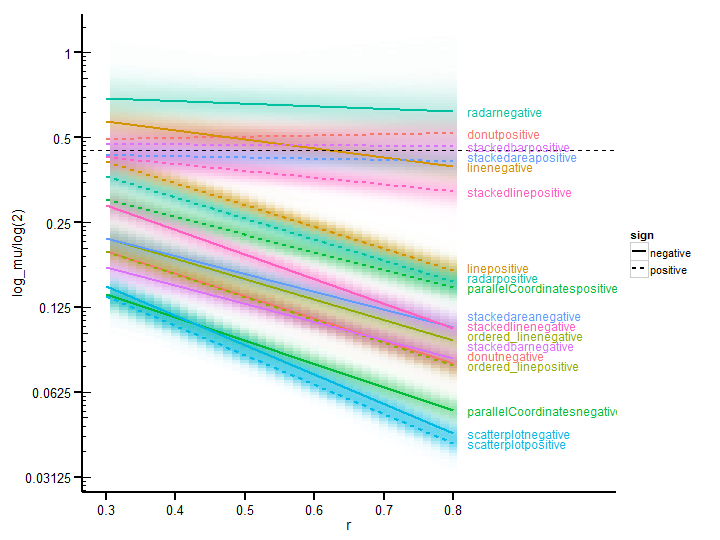
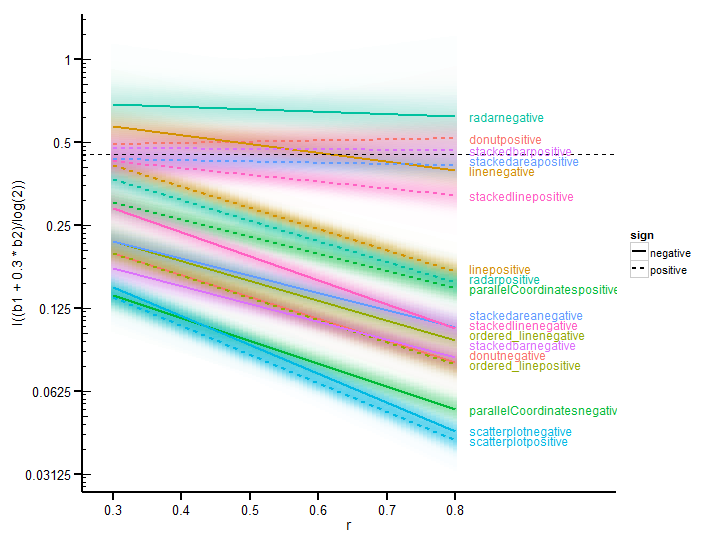
Nicer final model densities using predict_curve_density plus fixes for new gamlss.
predict_curve_density() from newest tidybayes makes the gradients on the
final model plot much faster and less memory-intensive to produce (plus
nicer looking).

Updated gamlss seems to require passing the original data frame into the
model virtually always when making predictions (WHY?!), hence some minor fixes
there.

diff --git a/README.html b/README.html
@@ -299,9 +299,9 @@ weber_df =<span class="st"> </span>weber_data_df %&gt;%
 <pre class="sourceCode r"><code class="sourceCode r">models =<span class="st"> </span><span class="kw">list</span>(<span class="dt">uncensored=</span>m.loglinear.all, <span class="dt">censored=</span>m.censored)
 model_fits =<span class="st"> </span><span class="kw">ldply</span>(<span class="kw">c</span>(<span class="st">&quot;uncensored&quot;</span>, <span class="st">&quot;censored&quot;</span>), function(m) {
     <span class="kw">expand.grid</span>(<span class="dt">r=</span><span class="kw">c</span>(.<span class="dv">2</span>, .<span class="dv">9</span>), <span class="dt">visandsign=</span><span class="kw">levels</span>(df$visandsign)) %&gt;%
-<span class="st">    </span><span class="kw">mutate</span>(<span class="dt">approach_value =</span> <span class="dv">0</span>) %&gt;%
-<span class="st">    </span><span class="kw">cbind</span>(<span class="dt">prediction =</span> <span class="kw">predict</span>(models[[m]], <span class="dt">newdata=</span>.)) %&gt;%
-<span class="st">    </span><span class="kw">mutate</span>(<span class="dt">model =</span> m)
+<span class="st">        </span><span class="kw">mutate</span>(<span class="dt">approach_value =</span> <span class="dv">0</span>) %&gt;%
+<span class="st">        </span><span class="kw">cbind</span>(<span class="dt">prediction =</span> <span class="kw">predict</span>(models[[m]], <span class="dt">newdata=</span>., <span class="dt">data=</span>df)) %&gt;%
+<span class="st">        </span><span class="kw">mutate</span>(<span class="dt">model =</span> m)
 })</code></pre>
 <p>Finally, we'll plot the fit for each condition, with and without censoring (compare to Fig 7 in paper):</p>
 <pre class="sourceCode r"><code class="sourceCode r"><span class="kw">ggplot</span>(
@@ -336,25 +336,24 @@ b_medians =<span class="st"> </span>b_samples %&gt;%
 <span class="st">    </span><span class="kw">group_by</span>(visandsign, vis, sign) %&gt;%<span class="st"> </span><span class="co">#vis, sign are redundant here but we want to keep them around</span>
 <span class="st">    </span><span class="kw">summarise</span>(<span class="dt">b1 =</span> <span class="kw">median</span>(b1), <span class="dt">b2 =</span> <span class="kw">median</span>(b2), <span class="dt">b3 =</span> <span class="kw">median</span>(b3), <span class="dt">b4 =</span> <span class="kw">median</span>(b4))</code></pre>
 <p>Then we generate a curve and gradient for log(mu) by r:</p>
-<pre class="sourceCode r"><code class="sourceCode r"><span class="kw">memory.limit</span>(<span class="dv">8000</span>)  <span class="co">#we need a decent amount of RAM to do this</span>
-pred_r_min =<span class="st"> </span>.<span class="dv">3</span>
+<pre class="sourceCode r"><code class="sourceCode r">pred_r_min =<span class="st"> </span>.<span class="dv">3</span>
 pred_r_max =<span class="st"> </span>.<span class="dv">8</span>
-pred_r_step =<span class="st"> </span>.<span class="dv">1</span>/<span class="dv">8</span>
-mu_by_r =<span class="st"> </span><span class="kw">ldply</span>(<span class="kw">seq</span>(pred_r_min, pred_r_max, <span class="dt">by =</span> pred_r_step), 
-    function(r) <span class="kw">within</span>(b_samples, {
-        r &lt;-<span class="st"> </span>r
-        log_mu &lt;-<span class="st"> </span>b1 +<span class="st"> </span>b2*r
-    }))</code></pre>
+pred_r_step =<span class="st"> </span>.<span class="dv">1</span>/<span class="dv">16</span>
+mu_by_r =<span class="st"> </span>b_samples %&gt;%
+<span class="st">    </span><span class="kw">group_by</span>(visandsign, vis, sign) %&gt;%
+<span class="st">    </span><span class="kw">predict_curve_density</span>(
+        log_mu ~<span class="st"> </span>b1 +<span class="st"> </span>b2 *<span class="st"> </span>r,
+        <span class="dt">r =</span> <span class="kw">seq</span>(pred_r_min, pred_r_max, <span class="dt">by =</span> pred_r_step),
+    )</code></pre>
 <p>And we plot it, in log space (Fig 8.1):</p>
 <pre class="sourceCode r"><code class="sourceCode r">mu_by_r %&gt;%
 <span class="st">    </span><span class="kw">ggplot</span>(
-        <span class="kw">aes</span>(<span class="dt">x=</span>r, <span class="dt">y=</span>log_mu/<span class="kw">log</span>(<span class="dv">2</span>), <span class="dt">group=</span>visandsign)
+        <span class="kw">aes</span>(<span class="dt">x=</span>r, <span class="dt">group=</span>visandsign)
     ) +<span class="st"> </span>
-<span class="st">    </span><span class="kw">geom_bin2d</span>(
-        <span class="kw">aes</span>(<span class="dt">alpha=</span>..density.., <span class="dt">fill=</span>vis, <span class="dt">color=</span><span class="ot">NULL</span>),
-        <span class="dt">breaks=</span><span class="kw">list</span>(
-            <span class="dt">x=</span><span class="kw">seq</span>(pred_r_min -<span class="st"> </span>pred_r_step/<span class="dv">2</span>, pred_r_max +<span class="st"> </span>pred_r_step/<span class="dv">2</span>, pred_r_step), 
-            <span class="dt">y=</span><span class="kw">seq</span>(<span class="kw">min</span>(mu_by_r$log_mu/<span class="kw">log</span>(<span class="dv">2</span>)), <span class="kw">max</span>(mu_by_r$log_mu/<span class="kw">log</span>(<span class="dv">2</span>)), <span class="dt">length=</span><span class="dv">150</span>)
+<span class="st">    </span><span class="kw">geom_rect</span>(
+        <span class="kw">aes</span>(<span class="dt">xmin =</span> r -<span class="st"> </span>pred_r_step/<span class="dv">2</span>, <span class="dt">xmax =</span> r +<span class="st"> </span>pred_r_step/<span class="dv">2</span>, 
+            <span class="dt">ymin =</span> log_mu.lower/<span class="kw">log</span>(<span class="dv">2</span>), <span class="dt">ymax =</span> log_mu.upper/<span class="kw">log</span>(<span class="dv">2</span>),
+            <span class="dt">alpha =</span> log_mu.density, <span class="dt">fill =</span> vis, <span class="dt">color =</span> <span class="ot">NULL</span>
         )
     ) +
 <span class="st">    </span><span class="kw">geom_segment</span>(<span class="dt">data=</span>b_medians, <span class="kw">aes</span>(<span class="dt">x=</span>.<span class="dv">3</span>, <span class="dt">y=</span><span class="kw">I</span>((b1 +<span class="st"> </span>.<span class="dv">3</span> *<span class="st"> </span>b2)/<span class="kw">log</span>(<span class="dv">2</span>)), <span class="dt">xend=</span>.<span class="dv">8</span>, <span class="dt">yend=</span><span class="kw">I</span>((b1 +<span class="st"> </span>.<span class="dv">8</span> *<span class="st"> </span>b2)/<span class="kw">log</span>(<span class="dv">2</span>)), <span class="dt">color=</span>vis, <span class="dt">linetype=</span>sign), <span class="dt">size=</span><span class="dv">1</span>) +<span class="st"> </span>
@@ -364,8 +363,9 @@ mu_by_r =<span class="st"> </span><span class="kw">ldply</span>(<span class="kw"
 <span class="st">    </span><span class="kw">scale_color_discrete</span>(<span class="dt">guide=</span><span class="ot">FALSE</span>) +
 <span class="st">    </span><span class="kw">scale_fill_discrete</span>(<span class="dt">guide=</span><span class="ot">FALSE</span>) +
 <span class="st">    </span><span class="kw">scale_y_continuous</span>(<span class="dt">labels=</span><span class="kw">trans_format</span>(function(x) <span class="dv">2</span>^x, <span class="kw">math_format</span>(.x))) +
-<span class="st">    </span><span class="kw">scale_x_continuous</span>(<span class="dt">breaks=</span><span class="kw">seq</span>(<span class="fl">0.3</span>,<span class="fl">0.8</span>,<span class="dt">by=</span><span class="fl">0.1</span>), <span class="dt">limits=</span><span class="kw">c</span>(<span class="fl">0.3</span>,<span class="dv">1</span>)) +
+<span class="st">    </span><span class="kw">scale_x_continuous</span>(<span class="dt">breaks=</span><span class="kw">seq</span>(<span class="fl">0.3</span>,<span class="fl">0.8</span>,<span class="dt">by=</span><span class="fl">0.1</span>), <span class="dt">limits=</span><span class="kw">c</span>(<span class="fl">0.29</span>,<span class="dv">1</span>)) +
 <span class="st">    </span><span class="kw">annotation_logticks</span>(<span class="dt">sides=</span><span class="st">&quot;l&quot;</span>)</code></pre>
+<pre><code>## Loading required package: proto</code></pre>
 <div class="figure">
 <img src="figure/plot_mu_by_r-1.png" alt="plot of chunk plot_mu_by_r" /><p class="caption">plot of chunk plot_mu_by_r</p>
 </div>

diff --git a/README.md b/README.md
@@ -398,9 +398,9 @@ Then we'll generate fit lines from both models:
 models = list(uncensored=m.loglinear.all, censored=m.censored)
 model_fits = ldply(c("uncensored", "censored"), function(m) {
     expand.grid(r=c(.2, .9), visandsign=levels(df$visandsign)) %>%
-    mutate(approach_value = 0) %>%
-    cbind(prediction = predict(models[[m]], newdata=.)) %>%
-    mutate(model = m)
+        mutate(approach_value = 0) %>%
+        cbind(prediction = predict(models[[m]], newdata=., data=df)) %>%
+        mutate(model = m)
 })
 ```
 
@@ -467,15 +467,15 @@ Then we generate a curve and gradient for log(mu) by r:
 
 
 ```r
-memory.limit(8000)  #we need a decent amount of RAM to do this
 pred_r_min = .3
 pred_r_max = .8
-pred_r_step = .1/8
-mu_by_r = ldply(seq(pred_r_min, pred_r_max, by = pred_r_step), 
-    function(r) within(b_samples, {
-        r <- r
-        log_mu <- b1 + b2*r
-    }))
+pred_r_step = .1/16
+mu_by_r = b_samples %>%
+    group_by(visandsign, vis, sign) %>%
+    predict_curve_density(
+        log_mu ~ b1 + b2 * r,
+        r = seq(pred_r_min, pred_r_max, by = pred_r_step),
+    )
 ```
 
 And we plot it, in log space (Fig 8.1):
@@ -484,13 +484,12 @@ And we plot it, in log space (Fig 8.1):
 ```r
 mu_by_r %>%
     ggplot(
-        aes(x=r, y=log_mu/log(2), group=visandsign)
+        aes(x=r, group=visandsign)
     ) + 
-    geom_bin2d(
-        aes(alpha=..density.., fill=vis, color=NULL),
-        breaks=list(
-            x=seq(pred_r_min - pred_r_step/2, pred_r_max + pred_r_step/2, pred_r_step), 
-            y=seq(min(mu_by_r$log_mu/log(2)), max(mu_by_r$log_mu/log(2)), length=150)
+    geom_rect(
+        aes(xmin = r - pred_r_step/2, xmax = r + pred_r_step/2, 
+            ymin = log_mu.lower/log(2), ymax = log_mu.upper/log(2),
+            alpha = log_mu.density, fill = vis, color = NULL
         )
     ) +
     geom_segment(data=b_medians, aes(x=.3, y=I((b1 + .3 * b2)/log(2)), xend=.8, yend=I((b1 + .8 * b2)/log(2)), color=vis, linetype=sign), size=1) + 
@@ -500,8 +499,12 @@ mu_by_r %>%
     scale_color_discrete(guide=FALSE) +
     scale_fill_discrete(guide=FALSE) +
     scale_y_continuous(labels=trans_format(function(x) 2^x, math_format(.x))) +
-    scale_x_continuous(breaks=seq(0.3,0.8,by=0.1), limits=c(0.3,1)) +
+    scale_x_continuous(breaks=seq(0.3,0.8,by=0.1), limits=c(0.29,1)) +
     annotation_logticks(sides="l")
+```
+
+```
+## Loading required package: proto
 ```
 
 ![plot of chunk plot_mu_by_r](figure/plot_mu_by_r-1.png) 
